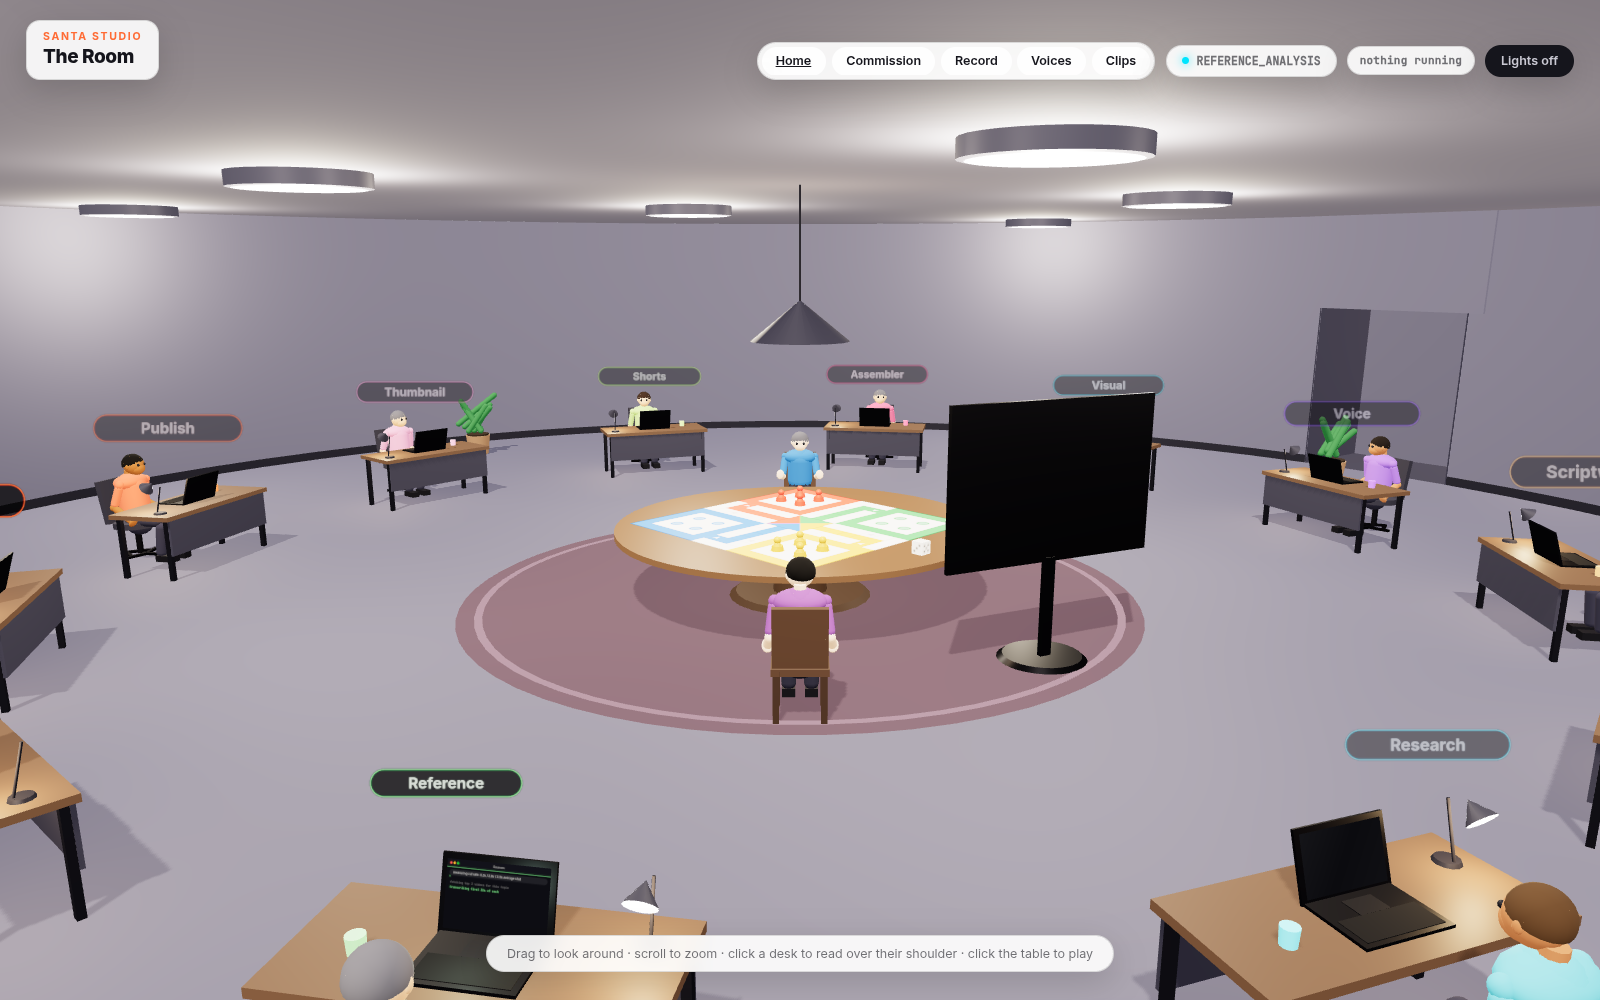
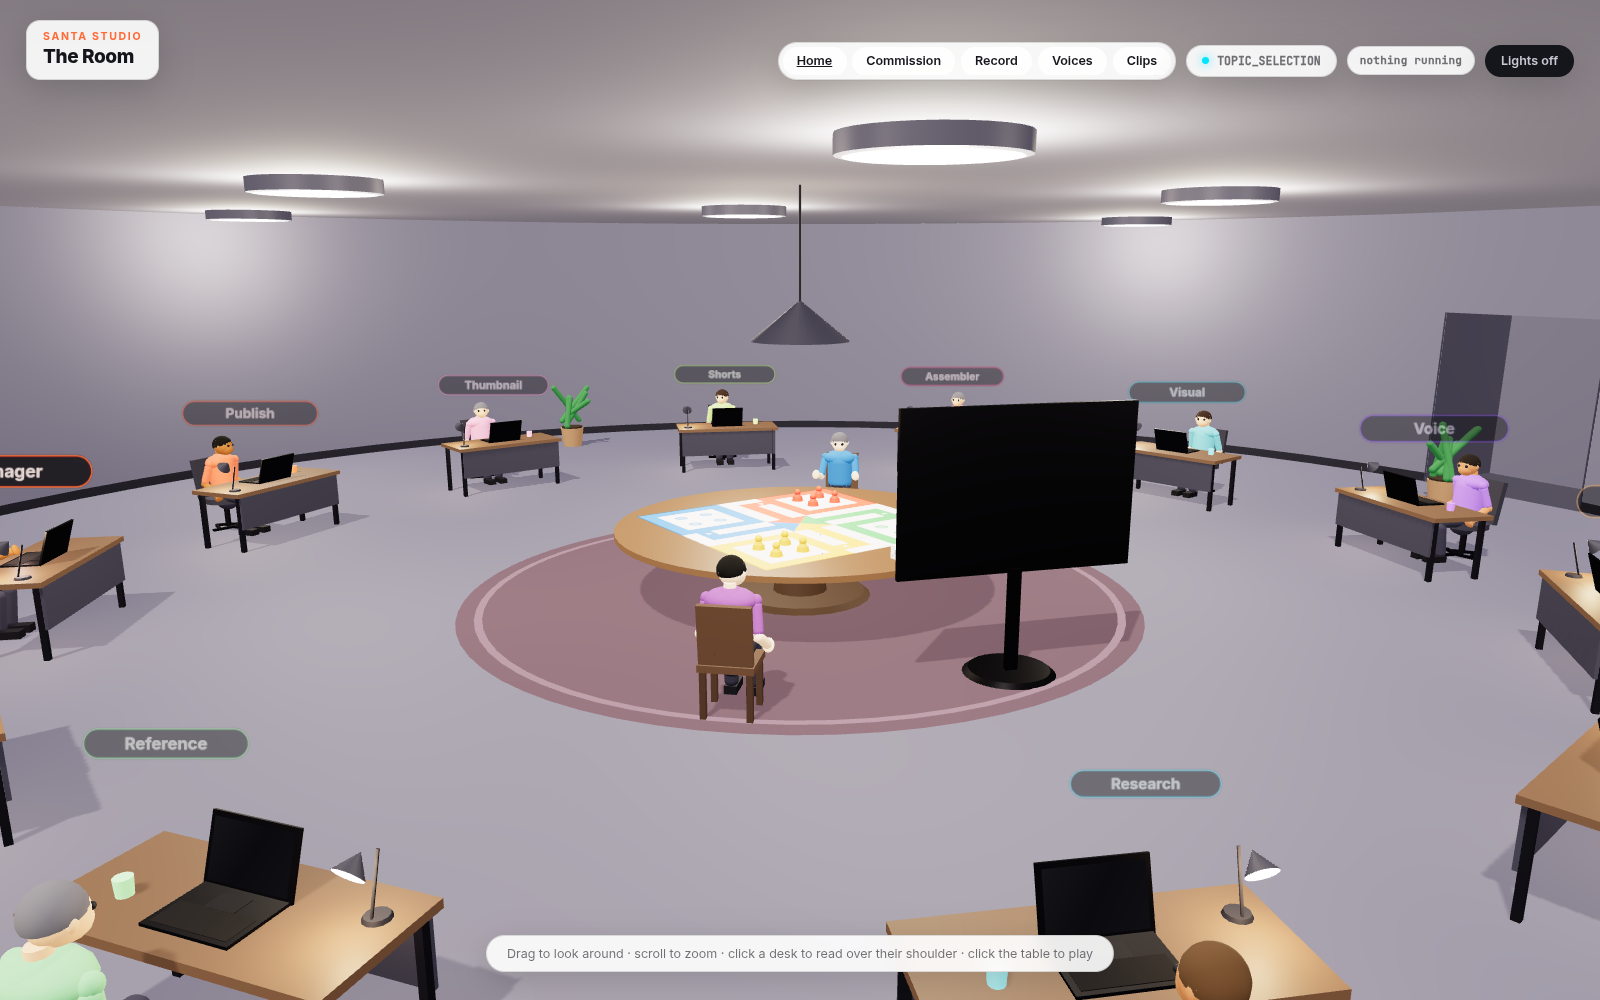
Light a place for the eye and for the camera separately
Lights off has to mean off - you see by the screens, and that is the whole
point of the switch. But a photograph of a room that dark is an unreadable
rectangle, which is what the landing page was being given. The two jobs
disagree, so they get different lights: the practical that follows you is
modest, and photography mode turns it up the way a studio lights a room for
the camera.

Also: the booth's screen was on the same wall as the rack and buried in the
foam, which read as two broken panels overlapping. It is on the opposite wall
now, clear of both.

diff --git a/room/src/world/Lighting.jsx b/room/src/world/Lighting.jsx
@@ -22,7 +22,7 @@ const CEILING = [
   [7.4, 7.4], [-7.4, 7.4], [7.4, -7.4], [-7.4, -7.4],
 ];
 
-export default function Lighting({ lightMode, at }) {
+export default function Lighting({ lightMode, at, photo }) {
   const { scene } = useThree();
   const ambient = useRef();
   const hemi = useRef();
@@ -43,18 +43,18 @@ export default function Lighting({ lightMode, at }) {
        bright state reading as dusk - which makes the switch feel broken even
        though it is doing something. */
     if (ambient.current) {
-      ambient.current.intensity += (THREE.MathUtils.lerp(0.8, 2.7, t) - ambient.current.intensity) * k;
+      ambient.current.intensity += (THREE.MathUtils.lerp(0.16, 2.7, t) - ambient.current.intensity) * k;
       ambient.current.color.lerp(lightMode ? DAY_AMBIENT : NIGHT_AMBIENT, k);
     }
     if (hemi.current)
-      hemi.current.intensity += (THREE.MathUtils.lerp(0.32, 2.0, t) - hemi.current.intensity) * k;
+      hemi.current.intensity += (THREE.MathUtils.lerp(0.09, 2.0, t) - hemi.current.intensity) * k;
     if (key.current)
-      key.current.intensity += (THREE.MathUtils.lerp(0.55, 3.4, t) - key.current.intensity) * k;
+      key.current.intensity += (THREE.MathUtils.lerp(0.12, 3.4, t) - key.current.intensity) * k;
 
     lamps.current.forEach((l) => {
       // Desk lamps stay on a little in the dark: an office at night has
       // lamps burning at the desks people are still working at.
-      if (l) l.intensity += ((6 + t * 30) - l.intensity) * k;
+      if (l) l.intensity += ((9 + t * 27) - l.intensity) * k;
     });
     panels.current.forEach((p) => {
       if (p) p.emissiveIntensity += (THREE.MathUtils.lerp(0.02, 1.15, t) - p.emissiveIntensity) * k;
@@ -75,10 +75,16 @@ export default function Lighting({ lightMode, at }) {
        rectangle in a black room. It follows the focus rather than being one
        lamp per place, so every place gets it, including the ones added next. */
     if (here.current) {
-      // Point lights are in candela here, so these are much larger numbers
-      // than the ambient ones next to them. Sixteen looked like a sensible
-      // figure and delivered nothing at three metres.
-      const target = at ? (lightMode ? 34 : 62) : 0;
+      /* Enough to read what you have walked up to, and no more. The first
+         try at this was far too weak to do anything; the second was strong
+         enough to light the whole room, which made "lights off" mean nothing.
+         Off should be off - the screens are what you see by. */
+      /* Photography gets its own light, because the two jobs disagree. In the
+         app, lights off has to mean off - you see by the screens, which is
+         the whole point of the switch. In a picture of the place, off that
+         dark is an unreadable rectangle. A real studio lights a room for the
+         camera too. */
+      const target = at ? (photo ? 120 : lightMode ? 26 : 15) : 0;
       here.current.intensity += (target - here.current.intensity) * k;
       if (at) {
         here.current.position.set(at[0], at[1] + 0.9, at[2]);
@@ -98,7 +104,13 @@ export default function Lighting({ lightMode, at }) {
     <group>
       {/* See the note in the frame loop: this is the light that makes a place
           you have walked up to readable, whatever the switch says. */}
-      <pointLight ref={here} intensity={0} distance={11} decay={1.15} color="#fff1e0" />
+      <pointLight
+        ref={here}
+        intensity={0}
+        distance={photo ? 22 : 7}
+        decay={photo ? 1.1 : 1.5}
+        color="#ffe9d2"
+      />
 
       <ambientLight ref={ambient} intensity={0.24} color="#8d90a8" />
       <hemisphereLight ref={hemi} intensity={0.13} color="#cfd6ff" groundColor="#3a2c22" />

diff --git a/room/src/studio/VocalBooth.jsx b/room/src/studio/VocalBooth.jsx
@@ -156,8 +156,8 @@ export default function VocalBooth({ position, rotation, mic, focused, lightMode
       <group position={[-sideX + 0.04, 0, 1.2]} rotation={[0, Math.PI / 2, 0]}>
         <Foam width={4.4} />
       </group>
-      <group position={[sideX - 0.04, 0, 1.2]} rotation={[0, -Math.PI / 2, 0]}>
-        <Foam width={4.4} />
+      <group position={[sideX - 0.04, 0, -1.1]} rotation={[0, -Math.PI / 2, 0]}>
+        <Foam width={2.2} />
       </group>
 
       {/* stand */}
@@ -187,7 +187,10 @@ export default function VocalBooth({ position, rotation, mic, focused, lightMode
       {/* The screen on the wall, which is where the prompt, the clock and the
           level live. They used to float over the middle of the room in a
           panel, covering the thing you had walked in to look at. */}
-      <group position={[1.55, 1.62, farZ + 0.16]} rotation={[0, -0.34, 0]}>
+      {/* On the wall opposite the rack, clear of both the foam and the other
+          panel. It was on the back wall at first, where it cut into the
+          wedges and read as two broken screens overlapping. */}
+      <group position={[sideX - 0.09, 1.62, 0.55]} rotation={[0, -Math.PI / 2, 0]}>
         <mesh castShadow>
           <boxGeometry args={[1.62, 0.98, 0.06]} />
           <meshStandardMaterial color="#0b0b11" roughness={0.45} metalness={0.4} />

diff --git a/room/src/world/Scene.jsx b/room/src/world/Scene.jsx
@@ -56,7 +56,7 @@ export default function Scene({ ludo, mic, commission, voices, bench }) {
   return (
     <>
       <CameraRig focus={focus} interacted={interacted} onInteract={markInteracted} />
-      <Lighting lightMode={lightMode} at={placePosition(focus)} />
+      <Lighting lightMode={lightMode} at={placePosition(focus)} photo={!!focus.photo} />
       <RoomShell />
 
       {AGENTS.map((agent, i) => {
